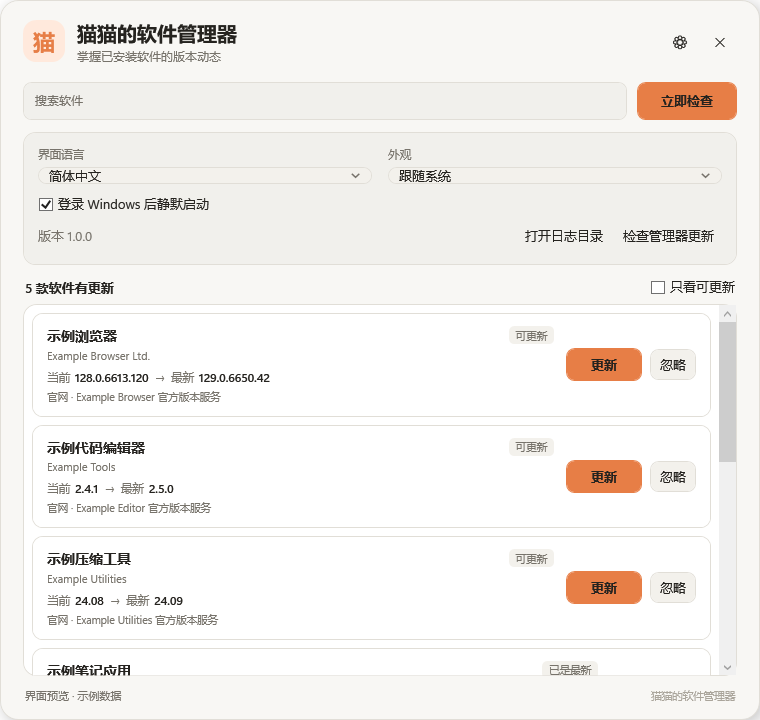
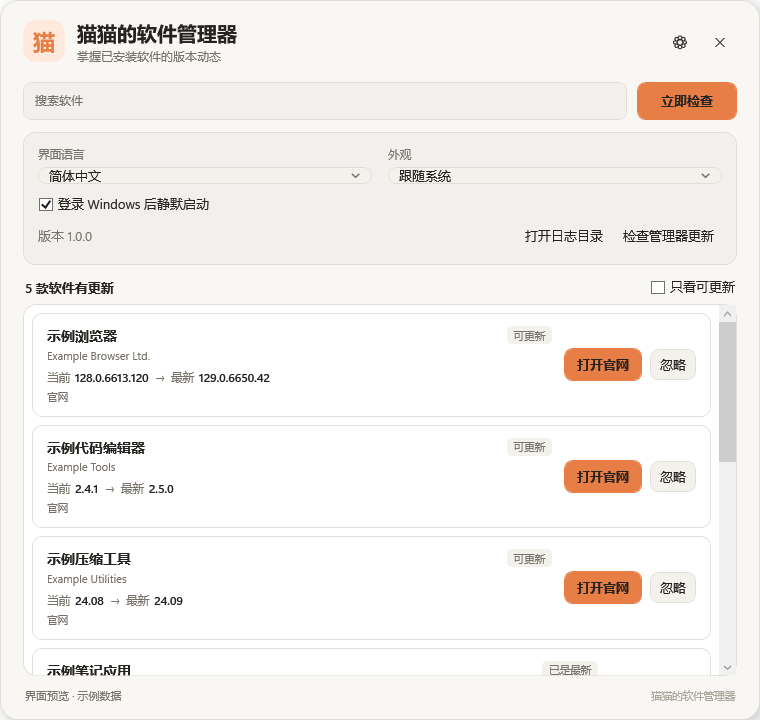
Keep source labels fully localized

diff --git a/src/CatSoftwareManager/ViewModels/AppRowViewModel.cs b/src/CatSoftwareManager/ViewModels/AppRowViewModel.cs
@@ -40,8 +40,6 @@ public sealed class AppRowViewModel : ObservableObject
 
     public string SourceText => Application.SourceKind switch
     {
-        VersionSourceKind.Official when !string.IsNullOrWhiteSpace(Application.OfficialSourceName) =>
-            $"{_localization["SourceOfficial"]} · {Application.OfficialSourceName}",
         VersionSourceKind.Official => _localization["SourceOfficial"],
         VersionSourceKind.Winget => _localization["SourceWinget"],
         _ => _localization["SourceUnknown"]
